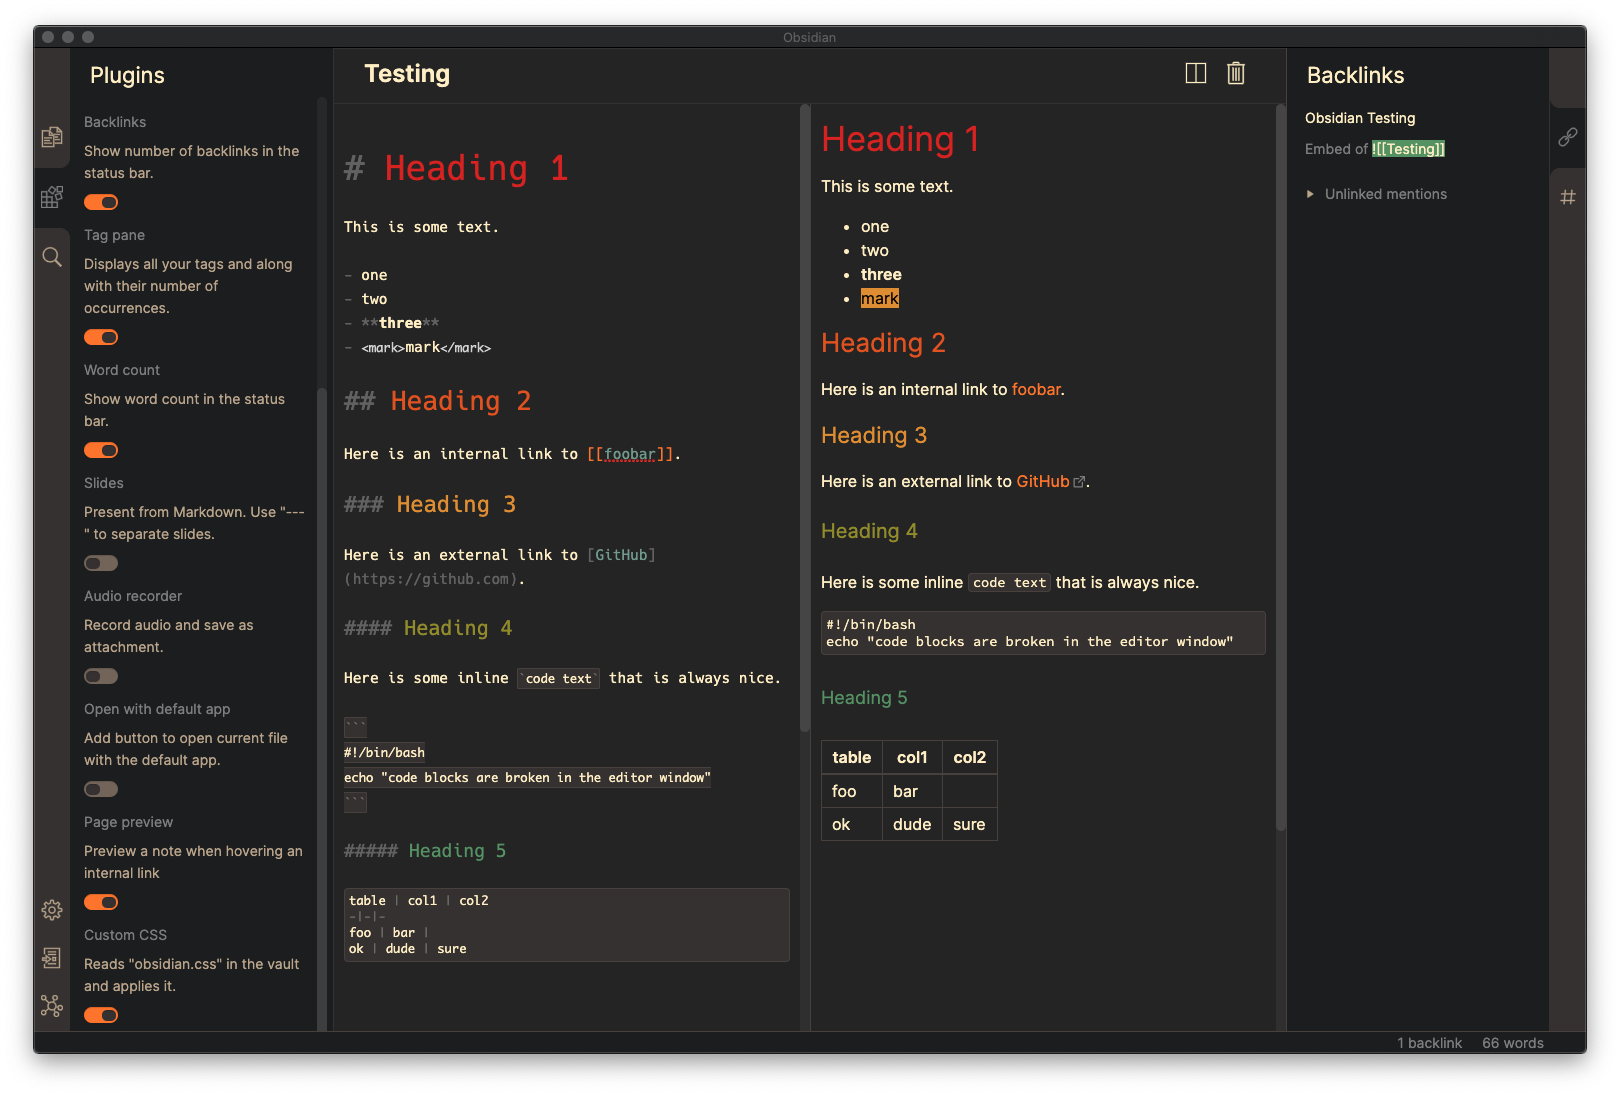
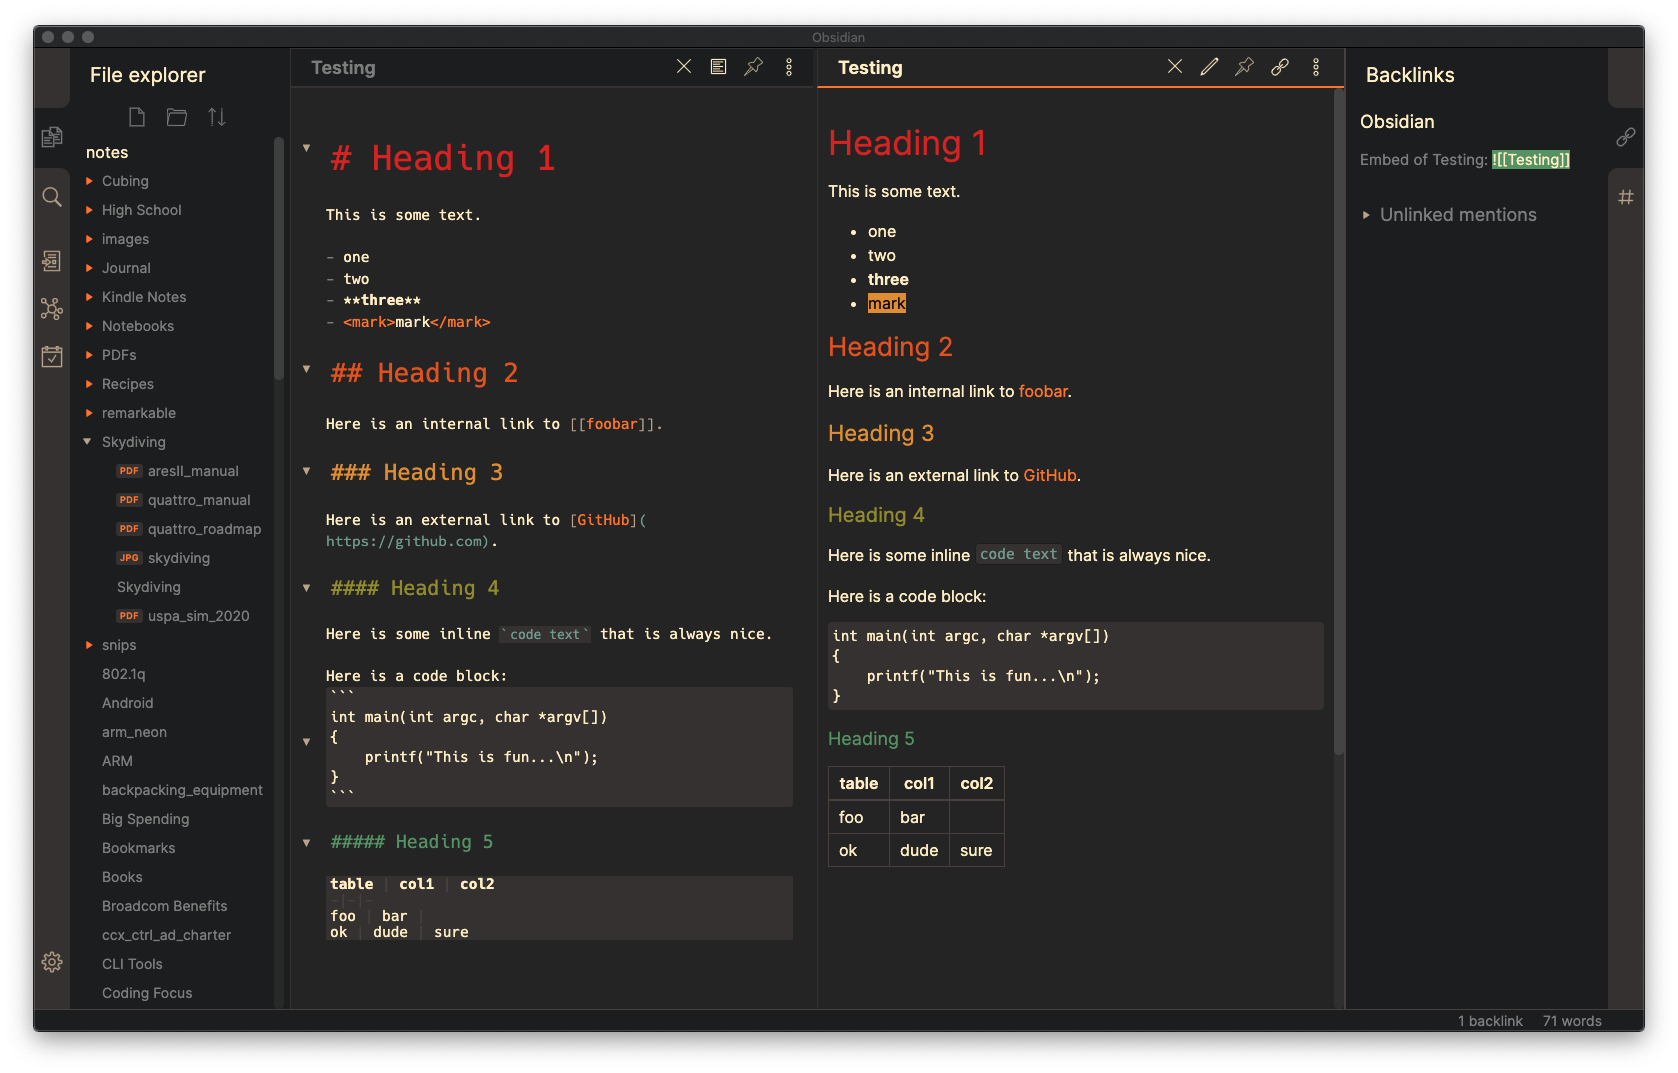
updated for Obsidian v0.5.0

diff --git a/obsidian.css b/obsidian.css
@@ -56,43 +56,27 @@
     stroke: var(--interactive-accent-rgb) !important;
 }
 
-.checkbox-container
+html,
+body
 {
-    background-color: var(--interactive-before);
-    height: 16px !important;
-    width: 34px !important;
-}
-
-.checkbox-container:after
-{
-    background-color: var(--background-secondary-alt);
-    height: 11px !important;
-    width: 14px !important;
-    left: -4px !important;
-}
-
-html, body
-{
-    font-size: 16px;
-}
-
-hr
-{
-    border-color: var(--text-normal);
+    font-size: 16px !important;
 }
 
 strong
 {
-    font-weight: 600;
+    font-weight: 600 !important;
 }
 
-a, .internal-link
+a,
+.cm-hmd-internal-link
 {
     color: var(--text-a) !important;
     text-decoration: none !important;
 }
 
-a:hover, .internal-link:hover
+a:hover,
+.cm-hmd-internal-link:hover,
+.cm-url
 {
     color: var(--text-a-hover) !important;
     text-decoration: none !important;
@@ -100,7 +84,7 @@ a:hover, .internal-link:hover
 
 mark
 {
-    background-color: var(--text-mark);
+    background-color: var(--text-mark) !important;
 }
 
 .file-view-actions a
@@ -113,24 +97,24 @@ mark
     color: var(--text-a) !important;
 }
 
-.cl-underlined-text
+.HyperMD-codeblock
 {
-    text-decoration: none !important;
-    color: var(--text-link) !important;
-}
-
-pre code
-{
-    padding: 4px !important;
-    line-height: normal;
-    display: block;
+    line-height: 1.4em !important;
+    padding-left: 4px !important;
+    padding-right: 4px !important;
     background-color: var(--pre-code) !important;
 }
 
-.code
+.HyperMD-codeblock-begin
 {
-    background-color: var(--background-secondary-alt) !important;
-    border: 1px solid var(--background-modifier-border) !important;
+    border-top-left-radius: 4px !important;
+    border-top-right-radius: 4px !important;
+}
+
+.HyperMD-codeblock-end
+{
+    border-bottom-left-radius: 4px !important;
+    border-bottom-right-radius: 4px !important;
 }
 
 th
@@ -140,40 +124,105 @@ th
 
 thead
 {
-    border-bottom: 2px solid var(--background-modifier-border);
+    border-bottom: 2px solid var(--background-modifier-border) !important;
+}
+
+.HyperMD-table-row
+{
+    line-height: normal !important;
+    padding-left: 4px !important;
+    padding-right: 4px !important;
+    background-color: var(--pre-code) !important;
+}
+
+.HyperMD-table-row-0
+{
+    /* padding-top: 4px !important; */
+}
+
+.CodeMirror-foldgutter-folded,
+.is-collapsed .nav-folder-collapse-indicator
+{
+    color: var(--text-a) !important;
+}
+
+.nav-file-tag
+{
+    color: var(--text-a) !important;
+}
+
+.is-active .nav-file-title
+{
+    color: var(--text-a) !important;
+    background-color: var(--background-primary-alt) !important;
+}
+
+.nav-file-title
+{
+    border-bottom-left-radius: 0 !important;
+    border-bottom-right-radius: 0 !important;
+    border-top-left-radius: 0 !important;
+    border-top-right-radius: 0 !important;
 }
 
 img
 {
-    display: block;
-    margin-left: auto;
-    margin-right: auto;
+    display: block !important;
+    margin-left: auto !important;
+    margin-right: auto !important;
 }
 
-.main-container-header
+pre
 {
-    padding-top: 0 !important;
+    padding: 0 !important;
+    margin: 0 !important;
+    border: 0 !important;
 }
 
-.title
+.markdown-preview-section pre code,
+.markdown-preview-section code
+{
+    font-size: 0.9em !important;
+    font-family: 'Hack Nerd Font', monospace !important;
+    background-color: var(--pre-code) !important;
+}
+
+.markdown-preview-section pre code
+{
+    padding: 4px !important;
+    line-height: 1.4em !important;
+    display: block !important;
+    color: var(--text-normal) !important;
+}
+
+.markdown-preview-section code
+{
+    color: var(--text-a-hover) !important;
+}
+
+.cm-s-obsidian,
+.cm-inline-code
+{
+    font-family: 'Hack Nerd Font', monospace !important;
+    -webkit-font-smoothing: auto !important;
+}
+
+.cm-inline-code
+{
+    color: var(--text-a-hover) !important;
+    background-color: var(--pre-code) !important;
+    padding: 1px !important;
+}
+
+.workspace-leaf-header-title
 {
     font-weight: 600 !important;
-}
-
-.side-dock-panels-container
-{
-    border-right: 1px solid var(--background-secondary-alt) !important;
-}
-
-.side-dock-panels-container *
-{
-    font-size: 14px !important;
 }
 
 .side-dock-title
 {
     padding-top: 15px !important;
-    font-size: 22px !important;
+    font-size: 20px !important;
 }
 
 .side-dock-ribbon-tab:hover,
@@ -185,37 +234,28 @@ img
     color: var(--text-a);
 }
 
-.nav-file
+.side-dock
 {
-    line-height: normal;
+    border-right: 0 !important;
 }
 
-.nav-file-title-content
-{
-    padding-top: 0 !important;
-    padding-bottom: 0 !important;
-}
-
-.plugin
-{
-    padding: 5px 10px !important;
-    margin: 0 !important;
-}
-
-.editor, .preview
+.cm-s-obsidian,
+.markdown-preview-view
 {
     padding-left: 10px !important;
     padding-right: 10px !important;
 }
 
-.editor
+.cm-s-obsidian,
+.markdown-preview-view,
+.workspace-leaf-header
 {
-    font-family: 'Hack Nerd Font', monospace;
+    border-left: 1px solid var(--background-secondary-alt) !important;
 }
 
 .markdown-embed-title
 {
-    font-weight: 600;
+    font-weight: 600 !important;
 }
 
 .markdown-embed
@@ -226,59 +266,46 @@ img
     margin-right: 10px !important;
 }
 
-.markdown-highlighting .h1,
-.preview h1
+.cm-header-1,
+.markdown-preview-section h1
 {
-    font-weight: 500;
-    font-size: 34px;
-    color: var(--text-title-h1);
+    font-weight: 500 !important;
+    font-size: 34px !important;
+    color: var(--text-title-h1) !important;
 }
 
-.markdown-highlighting .h2,
-.preview h2
+.cm-header-2,
+.markdown-preview-section h2
 {
-    font-weight: 500;
-    font-size: 26px;
-    color: var(--text-title-h2);
+    font-weight: 500 !important;
+    font-size: 26px !important;
+    color: var(--text-title-h2) !important;
 }
 
-.markdown-highlighting .h3,
-.preview h3
+.cm-header-3,
+.markdown-preview-section h3
 {
-    font-weight: 500;
-    font-size: 22px;
-    color: var(--text-title-h3);
+    font-weight: 500 !important;
+    font-size: 22px !important;
+    color: var(--text-title-h3) !important;
 }
 
-.markdown-highlighting .h4,
-.preview h4
+.cm-header-4,
+.markdown-preview-section h4
 {
-    font-weight: 500;
-    font-size: 20px;
-    color: var(--text-title-h4);
+    font-weight: 500 !important;
+    font-size: 20px !important;
+    color: var(--text-title-h4) !important;
 }
 
-.markdown-highlighting .h5,
-.markdown-highlighting .h6,
-.preview h5,
-.preview h6
+.cm-header-5,
+.cm-header-6,
+.markdown-preview-section h5,
+.markdown-preview-section h6
 {
-    font-weight: 500;
-    font-size: 18px;
-    color: var(--text-title-h5);
-}
-
-.table
-{
-    background-color: var(--background-secondary-alt);
-    border: 1px solid var(--background-modifier-border);
-    padding: 4px;
-    line-height: normal;
-    display: block;
-    border-top-left-radius: 4px;
-    border-top-right-radius: 4px;
-    border-bottom-right-radius: 4px;
-    border-bottom-left-radius: 4px;
+    font-weight: 500 !important;
+    font-size: 18px !important;
+    color: var(--text-title-h5) !important;
 }
 
 .suggestion-item.is-selected
@@ -290,5 +317,27 @@ img
 {
     background-color: var(--background-secondary-alt);
     border: 5px solid var(--interactive-accent) !important;
+}
+
+.checkbox-container
+{
+    background-color: var(--interactive-before);
+}
+
+.checkbox-container:after
+{
+    background-color: var(--background-secondary-alt);
+}
+
+.mod-cta
+{
+    color: var(--background-secondary-alt) !important;
+    font-weight: 600 !important;
+}
+
+.mod-cta:hover
+{
+    background-color: var(--interactive-before) !important;
+    font-weight: 600 !important;
 }
 
